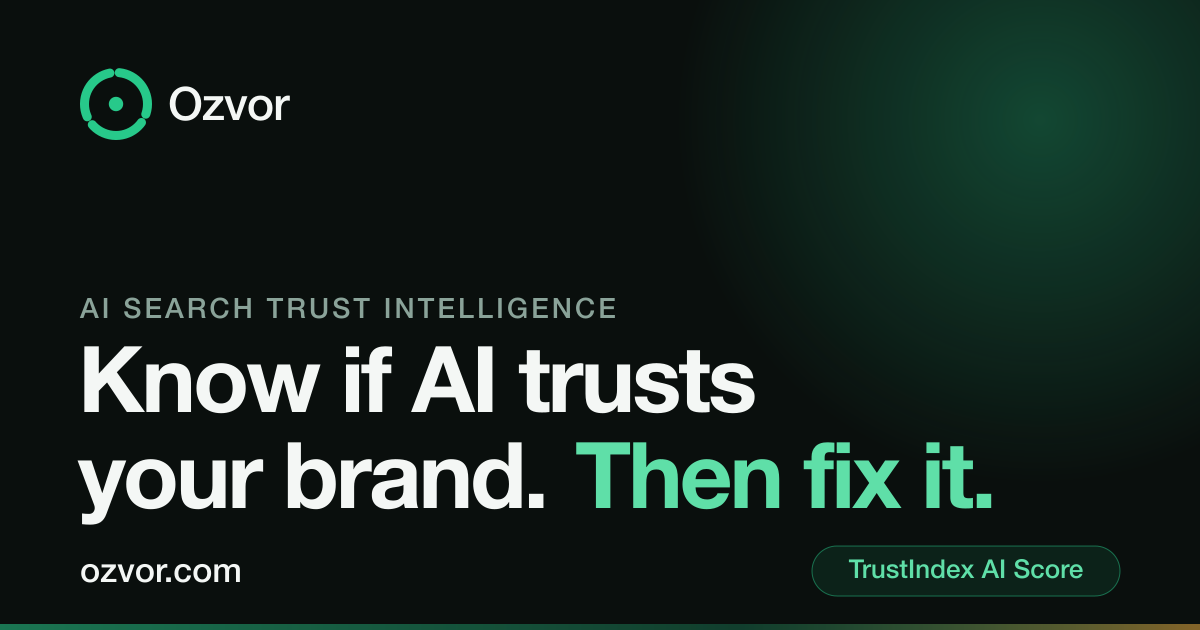
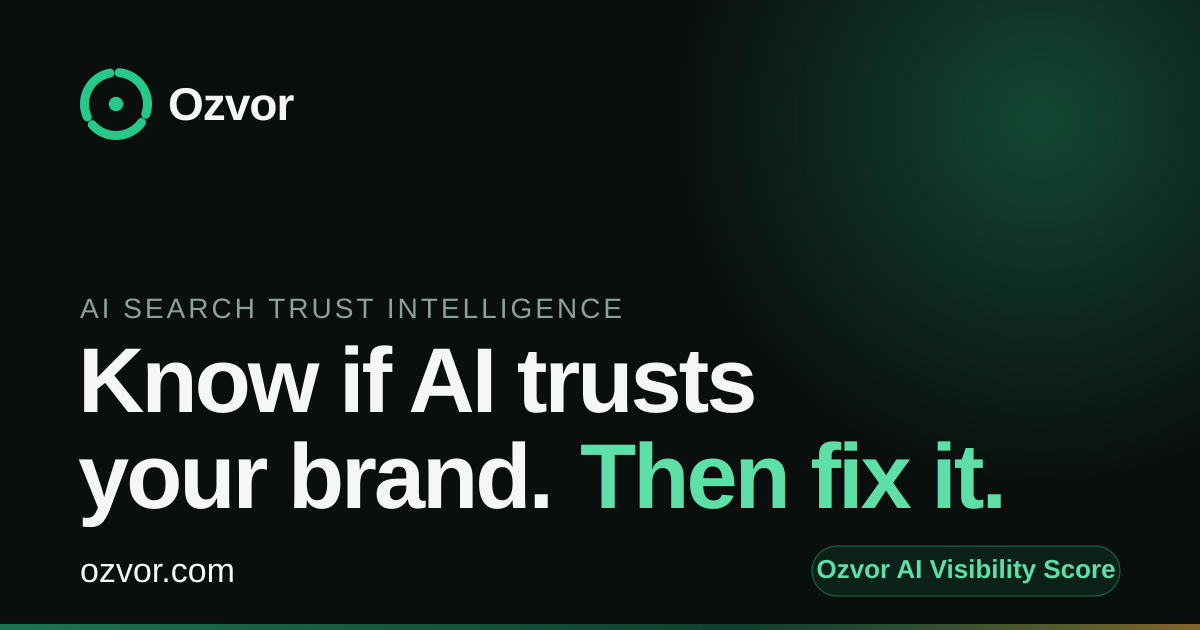
fix(deliverables): direct links, Ozvor branding, kit fallback

diff --git a/packages/llm/src/kit-deliverable.ts b/packages/llm/src/kit-deliverable.ts
@@ -61,6 +61,82 @@ function sha256(s: string): string {
 
 const LIVE_PROVIDERS: LLMProvider[] = ["anthropic", "openai", "gemini", "perplexity", "serp"];
 
+
+/**
+ * Emergency-safe Kit assembly used when the live audit path fails inside a paid
+ * delivery request. It intentionally uses conservative baseline scores and
+ * template drafts rather than fabricating live probe results. This protects the
+ * buyer experience: a paid Kit should deliver an honest starter pack instead of
+ * a generic "Something went wrong" page when one provider/runner is unavailable.
+ */
+export function buildFallbackKitDeliverable(input: KitInput): KitDeliverable {
+  const { brand, category } = input;
+  const fromTest: KitFromTest | null = input.testSeed
+    ? {
+        status: input.testSeed.status,
+        brandEngineCount: input.testSeed.brandEngineCount,
+        competitorEngineCount: input.testSeed.competitorEngineCount,
+        totalEngines: input.testSeed.totalEngines,
+        verdict: input.testSeed.verdict,
+      }
+    : null;
+
+  const score = computeGeoScore({
+    brand: { entityCompleteness: 0.35, citationVolume: 0.1, eeaSignal: 0.25 },
+    performance: {
+      schemaCoverage: 0.2,
+      llmsTxtPresent: false,
+      aiCrawlerAccess: 0.5,
+      citationShareVsCompetitors: 0.1,
+      aioPresence: false,
+    },
+    ai: { citationRate: 0.1, avgPositionScore: 0, sentimentScore: 0.5 },
+  });
+
+  const plan = generateStrategy({
+    scores: score,
+    components: {
+      brand: { entityCompleteness: 0.35, citationVolume: 0.1, eeaSignal: 0.25 },
+      performance: {
+        schemaCoverage: 0.2,
+        llmsTxtPresent: false,
+        aiCrawlerAccess: 0.5,
+        citationShareVsCompetitors: 0.1,
+        aioPresence: false,
+      },
+      ai: { citationRate: 0.1, avgPositionScore: 0, sentimentScore: 0.5 },
+    },
+    offsiteSources: [],
+    contentTraits: {},
+    displacedByCompetitors: 0,
+  });
+  const topFixes = plan.recommendations.slice(0, 3);
+  const types: ContentType[] = ["blog", "linkedin", "faq"];
+  const drafts: Array<{ contentType: ContentType } & ContentDraft> = types.map((contentType, i) => {
+    const rec = topFixes[i] ?? topFixes[0];
+    const topic = rec?.action ?? `How ${brand} helps with ${category}`;
+    return { contentType, ...templateDraft({ contentType, brandName: brand, category, topic }), keyUsed: "none" as const };
+  });
+
+  return {
+    brand,
+    generatedAt: new Date().toISOString(),
+    live: false,
+    fromTest,
+    score,
+    topFixes,
+    drafts,
+    publishChecklist: [
+      "Start with robots.txt: allow GPTBot, ClaudeBot, PerplexityBot and Google-Extended so AI engines can read your site.",
+      "Publish the blog draft on your website and link it from your homepage or resources page.",
+      "Publish the LinkedIn draft from your company page and add concrete proof points before posting.",
+      "Add the FAQ draft to your site with the included schema.org markup.",
+      "Re-run your AI Visibility Test in ~30 days to measure movement.",
+    ],
+    meta: { probesTotal: 0, probesCited: 0, enginesUsed: [] },
+  };
+}
+
 function buildPrompts(brand: string, category: string): string[] {
   const cat = category.trim() || "solution";
   return [

diff --git a/apps/web/src/components/SiteFooter.tsx b/apps/web/src/components/SiteFooter.tsx
@@ -113,23 +113,6 @@ export function SiteFooter() {
             >
               [email redacted]
             </p>
-            {/* Associated domains — Ozvor also operates these; cold-outreach
-                inboxes on them redirect here. Listed so the relationship is
-                public + crawlable (helps domain reputation / brand trust). */}
-            <p
-              style={{
-                margin: "0.5rem 0 0",
-                fontFamily: "var(--font-mono)",
-                fontSize: "0.6875rem",
-                color: "var(--color-muted)",
-                lineHeight: 1.6,
-              }}
-            >
-              Ozvor also operates{" "}
-              <a href="https://trustindexai.com" rel="noopener" className="mk-footer-link" style={{ fontSize: "0.6875rem" }}>trustindexai.com</a>
-              {" "}&middot;{" "}
-              <a href="https://organicposts.com" rel="noopener" className="mk-footer-link" style={{ fontSize: "0.6875rem" }}>organicposts.com</a>
-            </p>
           </div>
 
           {/* Link columns */}

diff --git a/packages/shared/src/emails/bonus-delivery.ts b/packages/shared/src/emails/bonus-delivery.ts
@@ -46,11 +46,16 @@ const BONUS_ASSETS = [
       "Fill-in-the-blank content structures engineered to get your business cited — a usable template on page one.",
   },
   {
-    label: "LLM Citation Tracker (.xlsx) + Methodology (PDF)",
+    label: "LLM Citation Tracker spreadsheet (.xlsx)",
     url: "https://ozvor.com/downloads/LLM-Citation-Tracker.xlsx",
-    resourcePage: "https://ozvor.com/resources/llm-citation-tracker",
     description:
-      "The spreadsheet plus a 10-minute weekly routine to track when AI names your brand versus your competitors.",
+      "The working spreadsheet for tracking when AI names your brand versus your competitors.",
+  },
+  {
+    label: "LLM Citation Tracker methodology (PDF)",
+    url: "https://ozvor.com/downloads/LLM-Citation-Tracker-Methodology.pdf",
+    description:
+      "The 10-minute weekly routine and scoring method that explains how to use the spreadsheet.",
   },
 ] as const;
 
@@ -89,7 +94,7 @@ export async function sendBonusDeliveryEmail(
 
   // ----- Plain-text body -----
   const bonusLines = BONUS_ASSETS.map(
-    (b, i) => `${i + 1}. ${b.label}\n   ${b.url}\n   (More info: ${b.resourcePage})`
+    (b, i) => `${i + 1}. ${b.label}\n   ${b.url}`
   ).join("\n\n");
 
   const agencyPerkLine = isAgencyAnnual
@@ -137,9 +142,7 @@ export async function sendBonusDeliveryEmail(
     <td style="padding:14px 0;border-bottom:1px solid #d5dfd9;">
       <p style="margin:0 0 4px 0;font-weight:700;color:#17211c;font-size:15px;">${b.label}</p>
       <p style="margin:0 0 10px 0;font-size:13px;color:#5c6e65;line-height:1.5;">${b.description}</p>
-      <a href="${b.url}" style="${btnStyle}">Download</a>
-      &nbsp;
-      <a href="${b.resourcePage}" style="font-size:13px;${linkStyle}">Learn more</a>
+      <a href="${b.url}" style="${btnStyle}">Download directly</a>
     </td>
   </tr>`
   ).join("");

diff --git a/apps/api/src/routes/products.ts b/apps/api/src/routes/products.ts
@@ -23,6 +23,7 @@ import { getSharedRedis, type SharedRedis } from "../shared-redis";
 import {
   runInvisibilityTest,
   buildKitDeliverable,
+  buildFallbackKitDeliverable,
   type InvisibilityTestResult,
 } from "../../../../packages/llm/src/index";
 import { createKitCheckoutSession, isCheckoutSessionPaid } from "../integrations/stripe";
@@ -418,6 +419,9 @@ export function registerProductRoutes(app: Hono, db: PostgresClient): void {
     }
 
     // Build the deliverable (audit + top-3 + 3 drafts + checklist).
+    // A paid buyer must not land on a dead-end page if a live provider/crawl path
+    // is unavailable. Fall back to an honest deterministic starter Kit rather than
+    // fabricating live probe results or returning a generic 502.
     let deliverable;
     try {
       deliverable = await buildKitDeliverable({
@@ -428,8 +432,14 @@ export function registerProductRoutes(app: Hono, db: PostgresClient): void {
         testSeed,
       });
     } catch (err) {
-      logger.error("kit_deliverable_failed", { message: (err as Error).message, kit_order_id: order.id });
-      return c.json({ message: "Could not generate your kit. Our team has been notified." }, 502);
+      logger.error("kit_deliverable_failed_fallback_used", { message: (err as Error).message, kit_order_id: order.id });
+      deliverable = buildFallbackKitDeliverable({
+        brand: order.brand,
+        domain: order.domain,
+        category: order.category,
+        region: order.region === "EU" ? "EU" : "US",
+        testSeed,
+      });
     }
 
     await db.query(

diff --git a/scripts/stripe-bootstrap.ts b/scripts/stripe-bootstrap.ts
@@ -1,5 +1,5 @@
 /**
- * stripe-bootstrap.ts — create the TrustIndex AI catalog in YOUR Stripe account.
+ * stripe-bootstrap.ts — create the Ozvor catalog in YOUR Stripe account.
  *
  * Creates (idempotently) the Products, Prices (USD), and the founder coupon that
  * the app's checkout reads, then prints the exact env lines to paste.
@@ -10,7 +10,7 @@
  *   STRIPE_SECRET_KEY=sk_test_xxx npx tsx scripts/stripe-bootstrap.ts
  *
  * Re-running is safe: Prices are matched by lookup_key and the coupon by id;
- * Products are matched by metadata.trustindex_sku (Stripe Search has a brief
+ * Products are matched by metadata.ozvor_sku (Stripe Search has a brief
  * indexing lag, so two runs within ~1 min could create a duplicate Product —
  * not a problem for Prices, which never duplicate).
  */
@@ -39,17 +39,17 @@ const mode = key.startsWith("sk_live_") ? "LIVE" : "TEST";
 //   set env vars — otherwise checkout will charge the old $149 amount.
 //   DO NOT hardcode price IDs anywhere; always read from env at runtime.
 const CATALOG = {
-  growth: { name: "TrustIndex AI — Growth", desc: "Weekly AI-visibility monitoring + GEO content plan for 1 brand.", monthly: 9900, annual: 118800 },
-  agency: { name: "TrustIndex AI — Agency", desc: "Weekly monitoring + competitor tracking across up to 25 brands.", monthly: 24900, annual: 298800 },
+  growth: { name: "Ozvor — Growth", desc: "Weekly AI-visibility monitoring + GEO content plan for 1 brand.", monthly: 9900, annual: 118800 },
+  agency: { name: "Ozvor — Agency", desc: "Weekly monitoring + competitor tracking across up to 25 brands.", monthly: 24900, annual: 298800 },
   kit:    { name: "The Get-Cited Kit",      desc: "One-time AI Visibility audit + 3 ready-to-publish drafts + GEO guide.", once: 2900 },
 };
 
 async function findOrCreateProduct(sku: string, name: string, description: string): Promise<Stripe.Product> {
   try {
-    const found = await stripe.products.search({ query: `active:'true' AND metadata['trustindex_sku']:'${sku}'`, limit: 1 });
+    const found = await stripe.products.search({ query: `active:'true' AND metadata['ozvor_sku']:'${sku}'`, limit: 1 });
     if (found.data[0]) return found.data[0];
   } catch { /* search may be unavailable on brand-new accounts — fall through to create */ }
-  return stripe.products.create({ name, description, metadata: { trustindex_sku: sku } });
+  return stripe.products.create({ name, description, metadata: { ozvor_sku: sku } });
 }
 
 async function findOrCreatePrice(lookupKey: string, params: Stripe.PriceCreateParams): Promise<Stripe.Price> {
@@ -59,7 +59,7 @@ async function findOrCreatePrice(lookupKey: string, params: Stripe.PriceCreatePa
 }
 
 async function main(): Promise<void> {
-  console.log(`\n→ Bootstrapping TrustIndex AI catalog in Stripe [${mode} mode]…\n`);
+  console.log(`\n→ Bootstrapping Ozvor catalog in Stripe [${mode} mode]…\n`);
 
   const growth = await findOrCreateProduct("growth", CATALOG.growth.name, CATALOG.growth.desc);
   const agency = await findOrCreateProduct("agency", CATALOG.agency.name, CATALOG.agency.desc);

diff --git a/tests/unit/llm/kit-deliverable.test.ts b/tests/unit/llm/kit-deliverable.test.ts
@@ -3,7 +3,7 @@
  * Mock mode (no keys, no domain) → deterministic, no network.
  */
 import { describe, it, expect, beforeEach } from "vitest";
-import { buildKitDeliverable } from "../../../packages/llm/src/kit-deliverable";
+import { buildFallbackKitDeliverable, buildKitDeliverable } from "../../../packages/llm/src/kit-deliverable";
 
 beforeEach(() => {
   delete process.env["ANTHROPIC_API_KEY"];
@@ -69,5 +69,17 @@ describe("buildKitDeliverable (mock mode, no domain)", () => {
       totalEngines: 4,
       verdict: seed.verdict,
     });
+  });
+});
+
+
+describe("buildFallbackKitDeliverable", () => {
+  it("returns an honest non-live Kit instead of throwing when live generation is unavailable", () => {
+    const k = buildFallbackKitDeliverable({ brand: "Ozvor", domain: "https://ozvor.com", category: "GEO platform", region: "US" });
+    expect(k.brand).toBe("Ozvor");
+    expect(k.live).toBe(false);
+    expect(k.meta.probesTotal).toBe(0);
+    expect(k.drafts.map((d) => d.contentType)).toEqual(["blog", "linkedin", "faq"]);
+    expect(JSON.stringify(k)).not.toMatch(/TrustIndex|trustindexai/i);
   });
 });

diff --git a/tests/unit/delivery-emails.test.ts b/tests/unit/delivery-emails.test.ts
@@ -118,10 +118,13 @@ describe("bonus delivery email", () => {
     expect(p.to).toBe("[email redacted]");
     expect(p.html).toContain("Welcome to Growth");
 
-    // The three bonus downloads.
-    expect(p.html).toContain("The-GEO-Visibility-Guide.pdf");
-    expect(p.html).toContain("5-High-Citation-Post-Templates.pdf");
-    expect(p.html).toContain("LLM-Citation-Tracker.xlsx");
+    // The four direct bonus downloads.
+    expect(p.html).toContain("https://ozvor.com/downloads/The-GEO-Visibility-Guide.pdf");
+    expect(p.html).toContain("https://ozvor.com/downloads/5-High-Citation-Post-Templates.pdf");
+    expect(p.html).toContain("https://ozvor.com/downloads/LLM-Citation-Tracker.xlsx");
+    expect(p.html).toContain("https://ozvor.com/downloads/LLM-Citation-Tracker-Methodology.pdf");
+    expect(p.text).toContain("https://ozvor.com/downloads/LLM-Citation-Tracker-Methodology.pdf");
+    expect(p.html).not.toContain("/resources/llm-citation-tracker");
 
     // First action + ladder top rung.
     expect(p.html).toContain("https://ozvor.com/dashboard");

diff --git a/apps/web/src/app/sitemap.ts b/apps/web/src/app/sitemap.ts
@@ -53,7 +53,7 @@ export default function sitemap(): MetadataRoute.Sitemap {
 
     // Blog — videos (placeholder slugs; update when real videos are published)
     ["/blog/watch/what-is-geo-and-why-it-matters", "monthly", 0.6],
-    ["/blog/watch/trustindex-ai-audit-walkthrough", "monthly", 0.6],
+    ["/blog/watch/ozvor-audit-walkthrough", "monthly", 0.6],
 
     // Legal / trust pages
     ["/privacy-policy", "yearly", 0.3],

diff --git a/apps/web/src/components/marketing/illustrations/ScorecardGlyph.tsx b/apps/web/src/components/marketing/illustrations/ScorecardGlyph.tsx
@@ -1,5 +1,5 @@
 /**
- * ScorecardGlyph — compact 3-vector TrustIndex AI scorecard visual.
+ * ScorecardGlyph — compact 3-vector Ozvor AI Visibility Score visual.
  *
  * Three arcs (AI · Brand · Performance) arranged as concentric partial rings,
  * each filled to a different percentage with the emerald gradient.

diff --git a/packages/llm/src/index.ts b/packages/llm/src/index.ts
@@ -212,7 +212,7 @@ export { runInvisibilityTest, buildTestPrompt } from "./invisibility-test";
 
 // "The Get-Cited Kit" — $29 one-time deliverable (audit + top-3 + 3 drafts).
 export type { KitDeliverable, KitInput } from "./kit-deliverable";
-export { buildKitDeliverable } from "./kit-deliverable";
+export { buildKitDeliverable, buildFallbackKitDeliverable } from "./kit-deliverable";
 
 // ---------------------------------------------------------------------------
 // OpenAI adapter — STUB (not activated for v1; compliance review required)